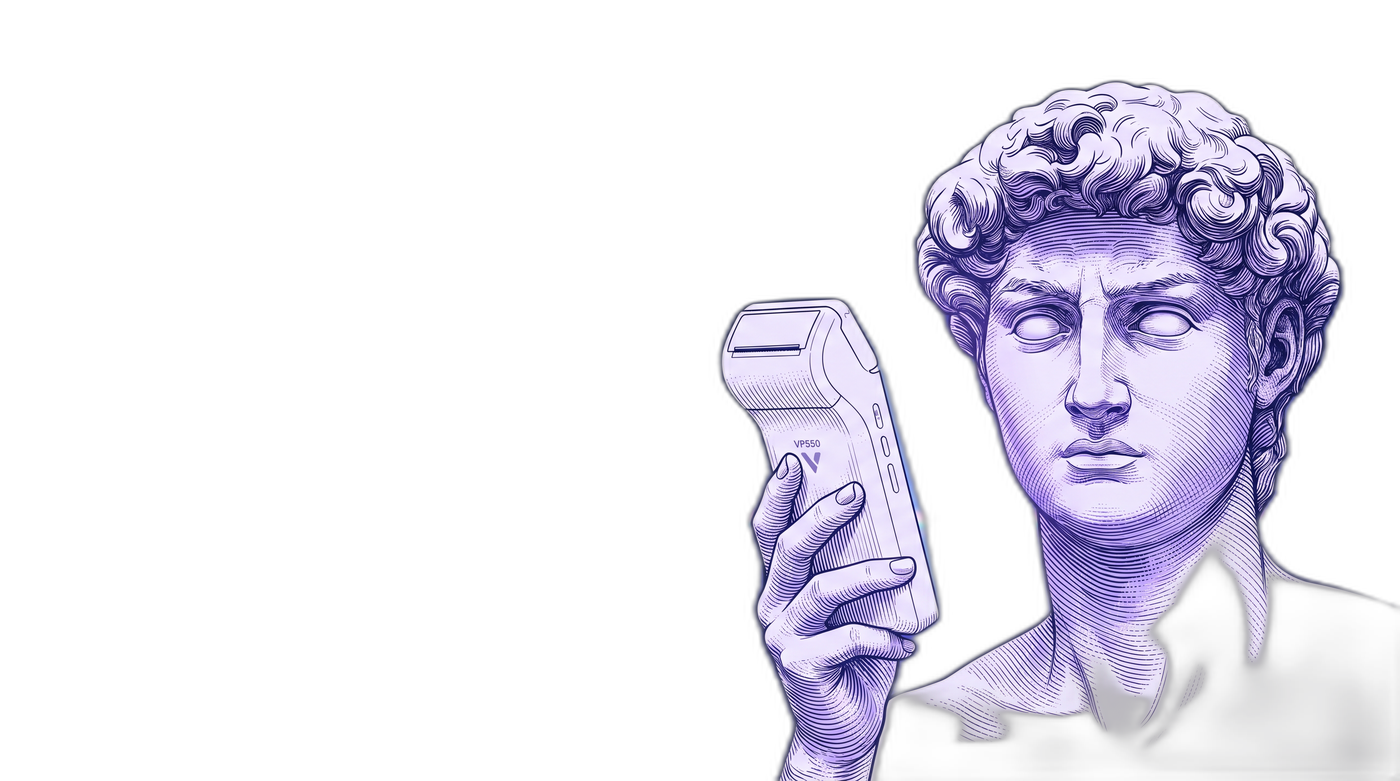
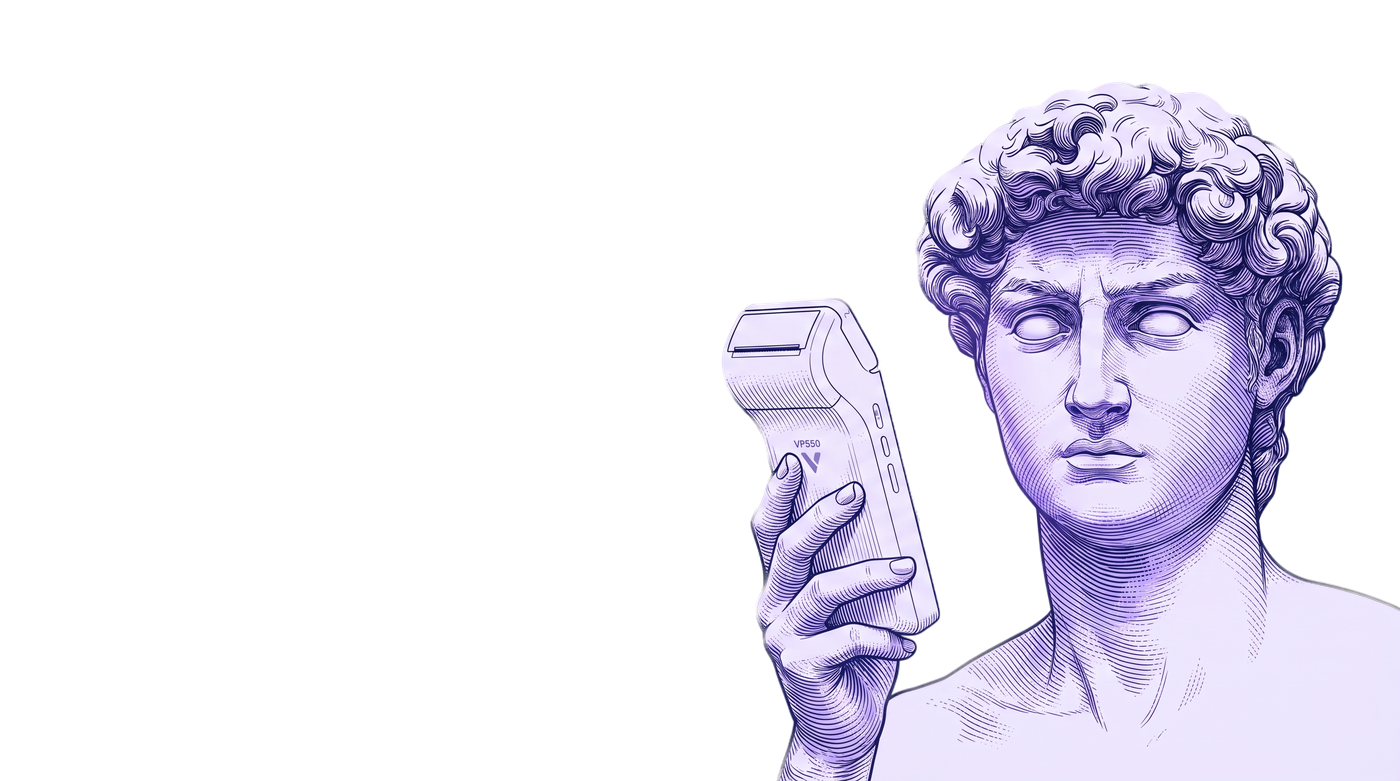
New hero copy + solid David cutout
Headline: 'You built it from nothing. We make sure nothing stops it.'
- Italic gradient shimmer falls on 'nothing stops it' (the poetic
  promise beat, mirroring Plaid's 'data into revolutionary')
- Slightly relaxed type scale (lh 0.96, -0.05em) to accommodate the
  longer line set without crowding

Subhead: 'Payments, capital, and AI in one stack — 0% processing fees,
same-day funding, and intelligence that grows with your business.'
- Bold weight on the two concrete benefit anchors (0% fees, same-day
  funding) so they pop at a glance

David: re-cut with isnet-general-use + alpha matting so the torso no
longer fades into nothing at the bottom. Positioned bottom: 0 / height
92% so he stands firmly on the section floor.

diff --git a/src/app/components/JuspayHero.tsx b/src/app/components/JuspayHero.tsx
@@ -64,9 +64,9 @@ export function JuspayHero() {
           aria-hidden
           className="pointer-events-none select-none hidden lg:block absolute"
           style={{
-            right: -40,
-            bottom: -30,
-            height: '88%',
+            right: -20,
+            bottom: 0,
+            height: '92%',
             width: 'auto',
             zIndex: 1,
             objectFit: 'contain',
@@ -101,15 +101,15 @@ export function JuspayHero() {
             className="dc-display"
             style={{
               color: 'var(--dc-on-dark)',
-              fontSize: 'clamp(48px, 7.2vw, 96px)',
-              lineHeight: 0.94,
+              fontSize: 'clamp(44px, 6.6vw, 88px)',
+              lineHeight: 0.96,
               fontWeight: 600,
-              letterSpacing: '-0.055em',
+              letterSpacing: '-0.05em',
+              maxWidth: '14ch',
             }}
           >
-            You built the<br />
-            business.<br />
-            We{' '}
+            You built it from nothing.<br />
+            We make sure{' '}
             <span
               className="inline-block align-baseline"
               style={{
@@ -126,20 +126,23 @@ export function JuspayHero() {
                 color: 'transparent',
               }}
             >
-              power
+              nothing stops it.
             </span>
-            {' '}it.
           </h1>
 
           <p
-            className="mt-7 max-w-[480px] text-[18px] leading-[1.55]"
+            className="mt-7 max-w-[540px] text-[18px] leading-[1.55]"
             style={{ color: 'rgba(247, 245, 240, 0.75)', fontFamily: 'var(--dc-font-body)' }}
           >
-            Payments + AI in one stack —{' '}
+            Payments, capital, and AI in one stack —{' '}
             <strong style={{ color: 'var(--dc-on-dark)', fontWeight: 600 }}>
               0% processing fees
-            </strong>{' '}
-            with cash discount, same-day funding.
+            </strong>
+            ,{' '}
+            <strong style={{ color: 'var(--dc-on-dark)', fontWeight: 600 }}>
+              same-day funding
+            </strong>
+            , and intelligence that grows with your business.
           </p>
 
           {/* CTAs — primary button + quiet text link. The secondary
